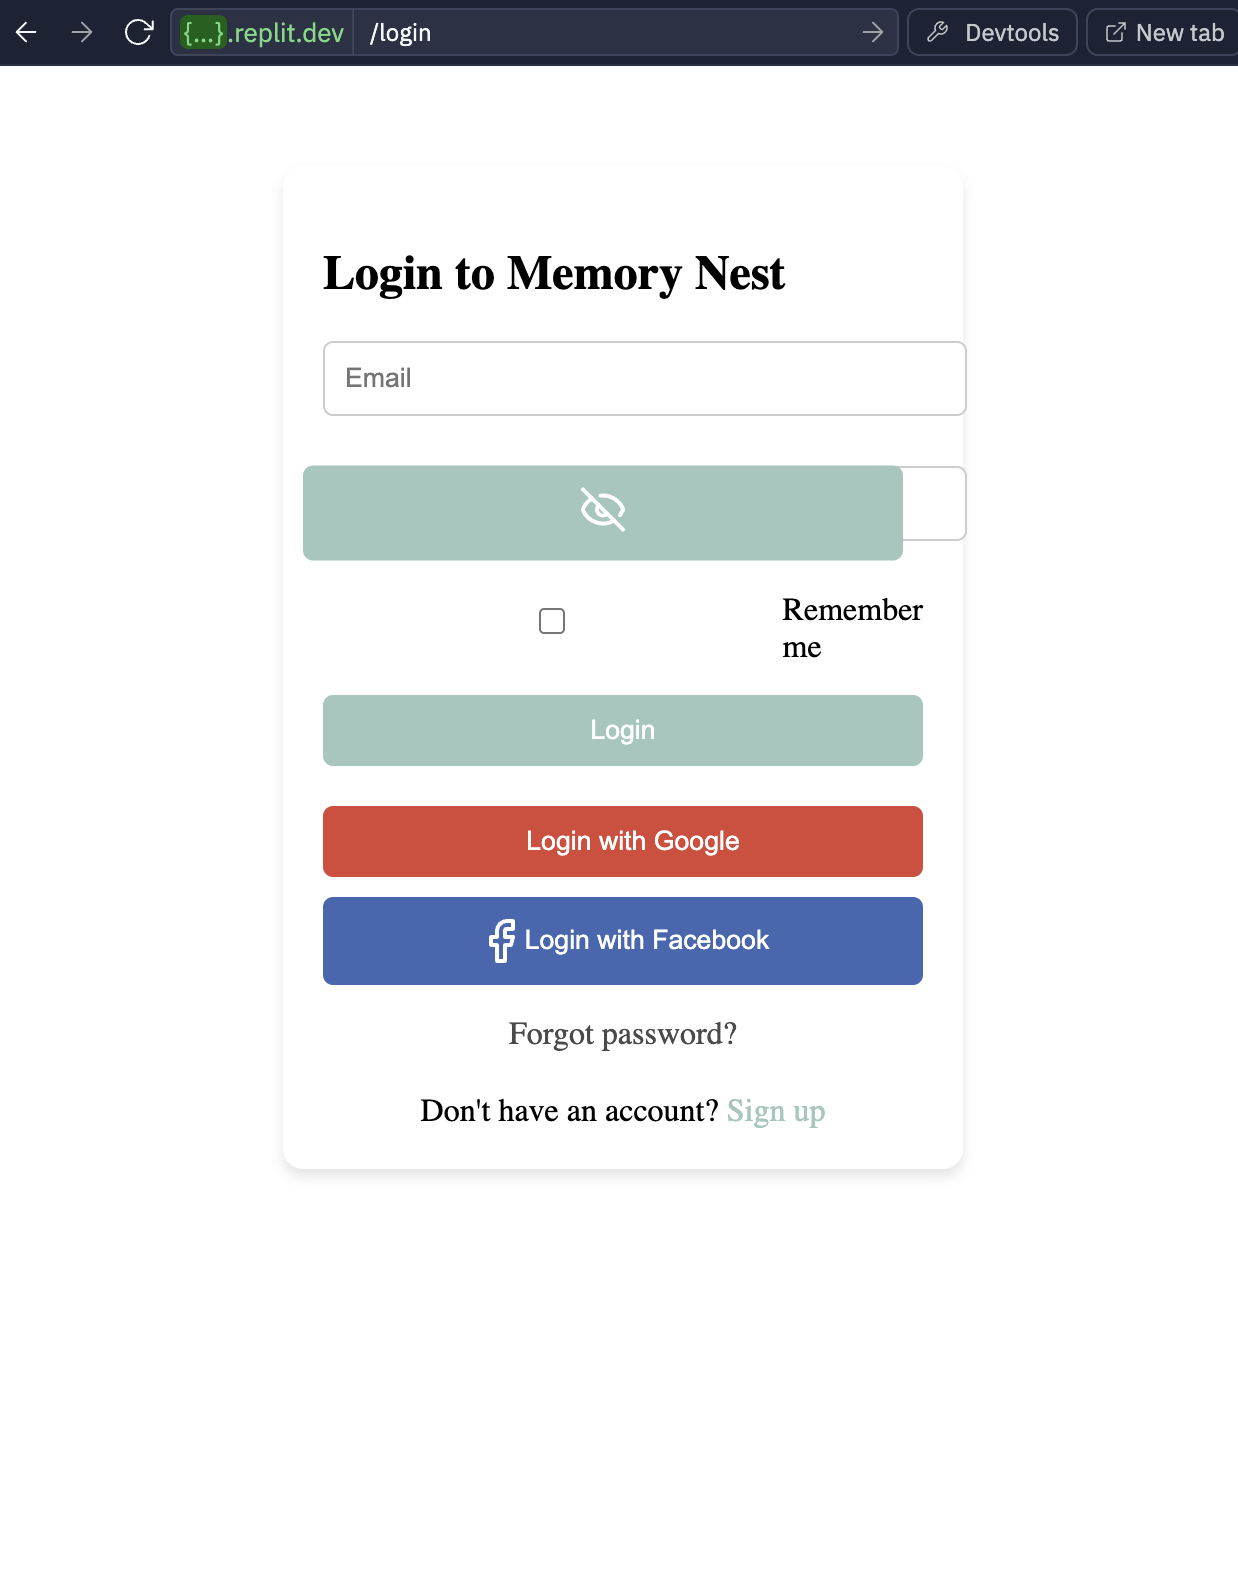
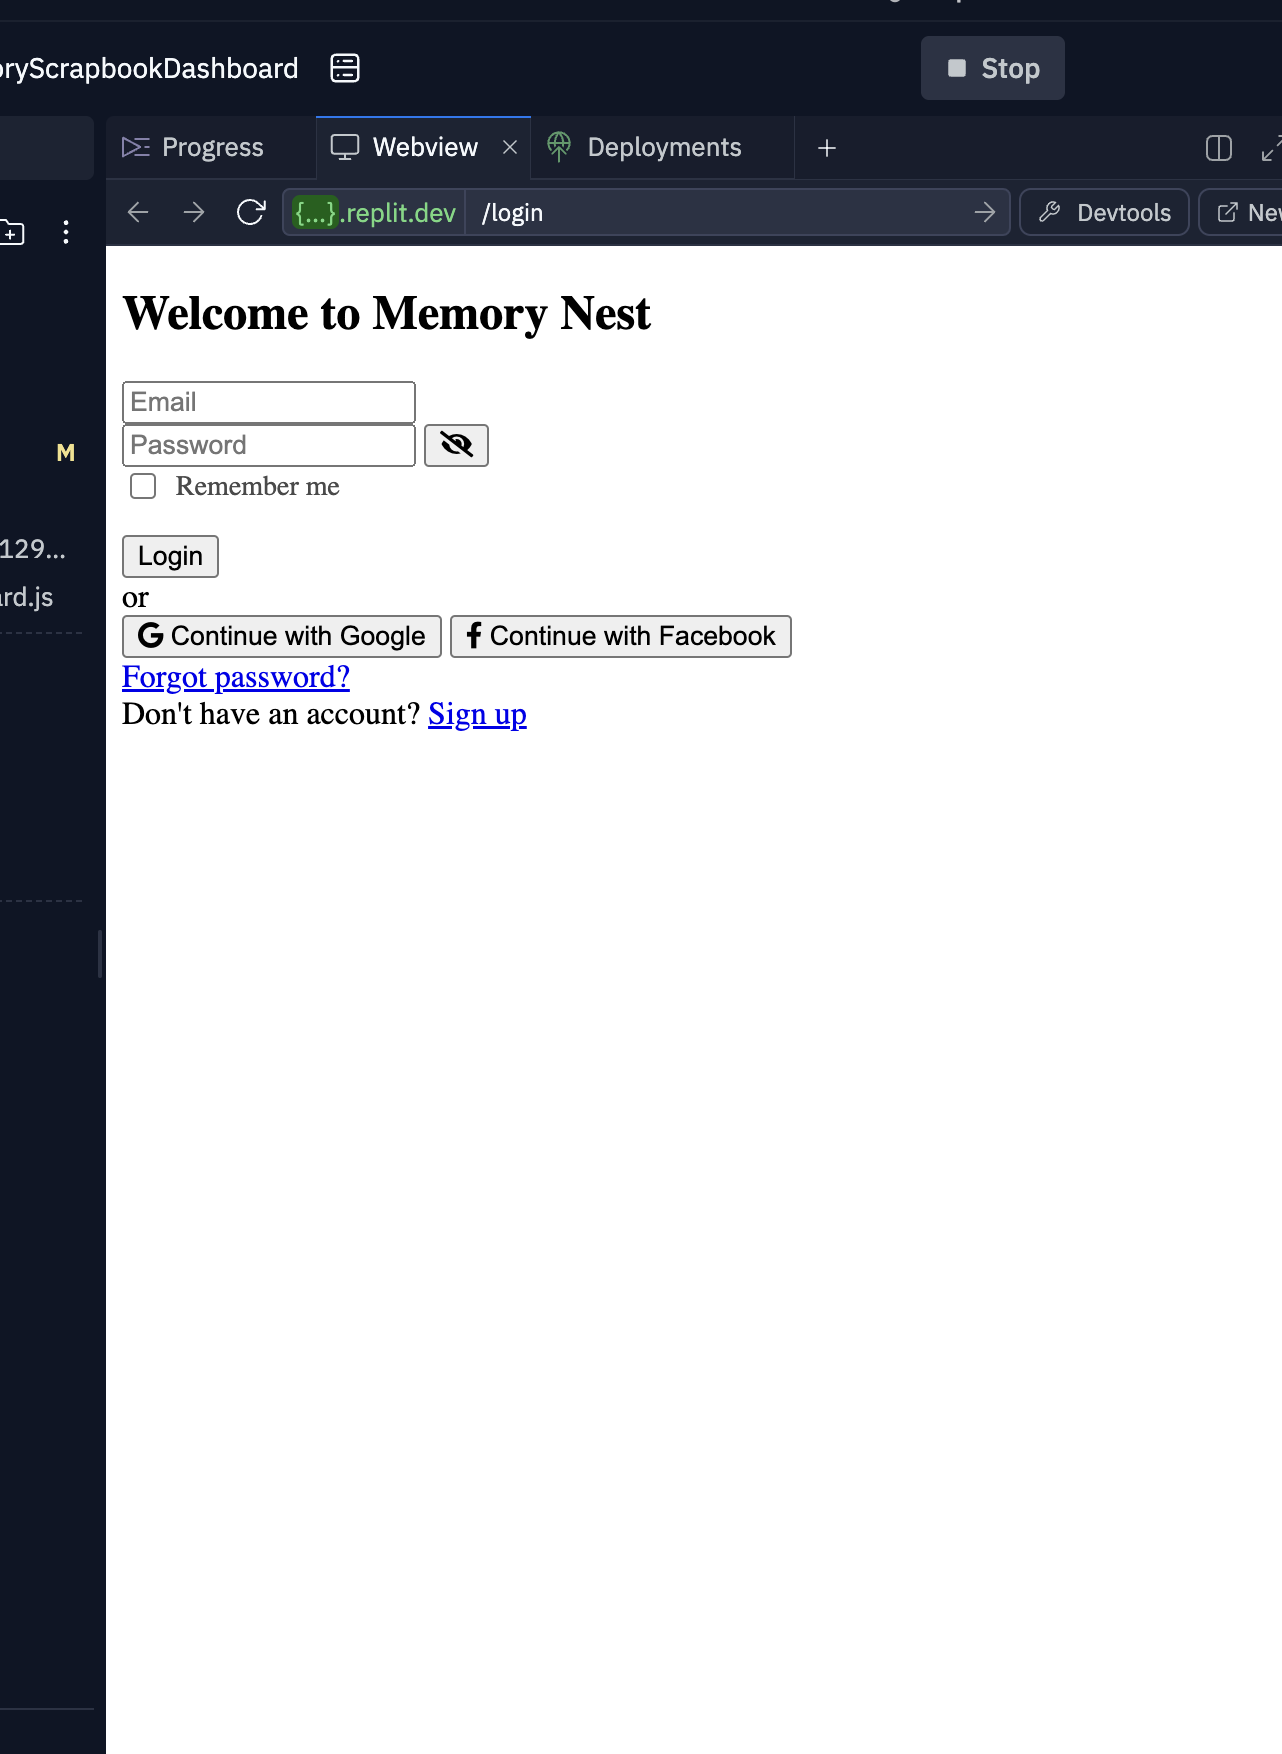
Agent step completed: Fix 'Remember me' checkbox alignment on the login page

diff --git a/static/css/style.css b/static/css/style.css
@@ -1,5 +1,4 @@
-/* ... (existing styles) ... */
-
+/* General styles */
 body {
     font-family: Arial, sans-serif;
     background-color: #F0EFE9;
@@ -10,13 +9,15 @@ body {
     margin: 0;
 }
 
+/* Login container */
 .login-container {
     max-width: 400px;
     width: 90%;
-    padding: 40px;
+    margin: 50px auto;
+    padding: 20px;
     background-color: white;
     border-radius: 10px;
-    box-shadow: 0 4px 6px rgba(0, 0, 0, 0.1);
+    box-shadow: 0 0 10px rgba(0, 0, 0, 0.1);
 }
 
 h2 {
@@ -25,10 +26,15 @@ h2 {
     margin-bottom: 30px;
 }
 
-.login-form input {
-    width: 100%;
-    padding: 12px;
+/* Input fields and login button */
+.input-group {
+    position: relative;
     margin-bottom: 15px;
+}
+
+.input-group input {
+    width: 100%;
+    padding: 10px;
     border: 1px solid #ccc;
     border-radius: 5px;
     font-size: 16px;
@@ -36,20 +42,71 @@ h2 {
 
 .login-button {
     width: 100%;
-    padding: 12px;
+    padding: 10px;
     background-color: #A2C7BE;
     color: white;
     border: none;
     border-radius: 5px;
-    cursor: pointer;
     font-size: 16px;
+    cursor: pointer;
     transition: background-color 0.3s;
 }
 
 .login-button:hover {
-    background-color: #8AB3A8;
+    background-color: #8fb3a9;
 }
 
+/* Remember me checkbox */
+.remember-me {
+    display: flex;
+    align-items: center;
+    margin-bottom: 15px;
+}
+
+.remember-me input[type="checkbox"] {
+    margin-right: 10px;
+}
+
+.remember-me label {
+    font-size: 14px;
+    color: #4A4A4A;
+}
+
+/* Social login buttons */
+.social-buttons {
+    display: flex;
+    flex-direction: column;
+    gap: 10px;
+    margin-top: 20px;
+}
+
+.social-login {
+    display: flex;
+    align-items: center;
+    justify-content: center;
+    padding: 10px;
+    border: 1px solid #ccc;
+    border-radius: 5px;
+    font-size: 14px;
+    cursor: pointer;
+    transition: background-color 0.3s;
+}
+
+.social-login i {
+    margin-right: 10px;
+}
+
+.google-login {
+    background-color: #fff;
+    color: #757575;
+}
+
+.facebook-login {
+    background-color: #3b5998;
+    color: #fff;
+}
+
+/* Additional styles */
 .flash-messages {
     list-style-type: none;
     padding: 0;
@@ -62,31 +119,6 @@ h2 {
     padding: 10px;
     border-radius: 5px;
     margin-bottom: 10px;
-}
-
-.input-group {
-    position: relative;
-    margin-bottom: 15px;
-}
-
-.toggle-password {
-    position: absolute;
-    right: 10px;
-    top: 50%;
-    transform: translateY(-50%);
-    background: none;
-    border: none;
-    cursor: pointer;
-}
-
-.remember-me {
-    display: flex;
-    align-items: center;
-    margin-bottom: 15px;
-}
-
-.remember-me input {
-    margin-right: 5px;
 }
 
 .separator {
@@ -106,46 +138,6 @@ h2 {
 .separator span {
     padding: 0 10px;
     color: #4A4A4A;
-}
-
-.social-buttons {
-    margin-top: 20px;
-}
-
-.social-login {
-    width: 100%;
-    padding: 12px;
-    margin-bottom: 10px;
-    border: none;
-    border-radius: 5px;
-    cursor: pointer;
-    display: flex;
-    align-items: center;
-    justify-content: center;
-    font-size: 16px;
-    transition: background-color 0.3s;
-}
-
-.social-login i {
-    margin-right: 10px;
-}
-
-.google-login {
-    background-color: #DB4437;
-    color: white;
-}
-
-.google-login:hover {
-    background-color: #C53929;
-}
-
-.facebook-login {
-    background-color: #4267B2;
-    color: white;
-}
-
-.facebook-login:hover {
-    background-color: #365899;
 }
 
 .forgot-password {
